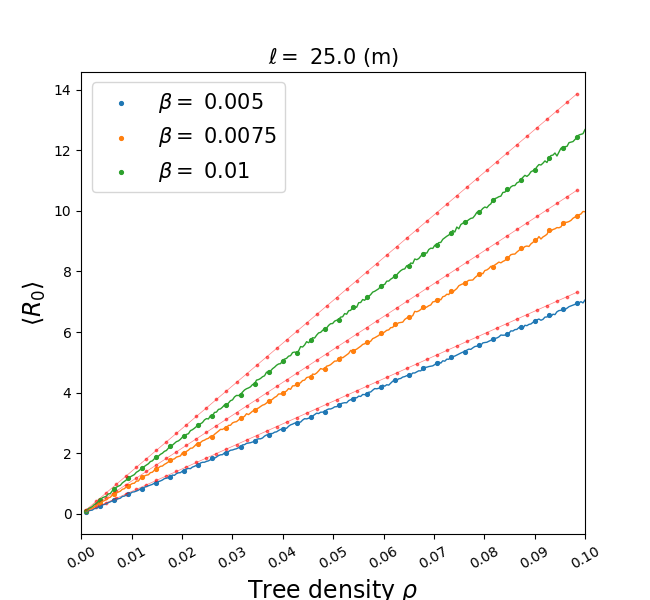
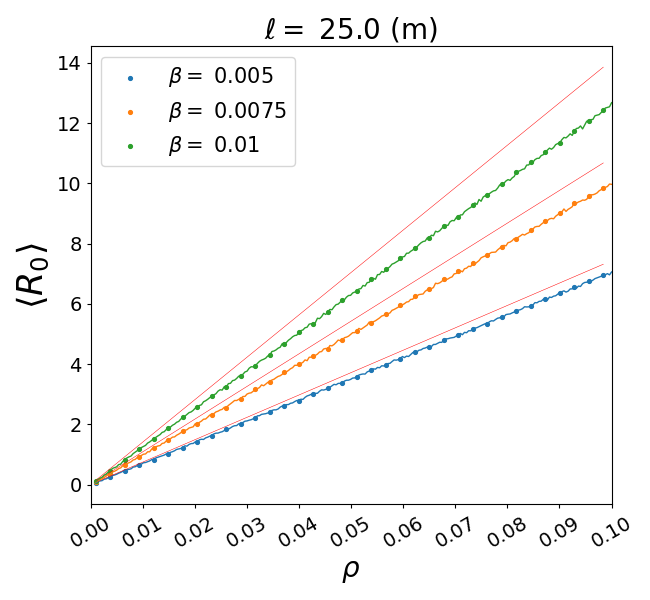
na

diff --git a/run_HPC/processData/data_process.py b/run_HPC/processData/data_process.py
@@ -67,15 +67,17 @@ class Plots:
 
                 # Get predicted R0 lines
                 R0_arr = Plots.get_R0_arr(self, rho=self.rho_Arr, beta=self.beta_Arr[j], ell=self.disp_Arr[i]/5, T=100)
-                ax.scatter(self.rho_Arr[::5], R0_arr[::5], color='r', s=3, alpha=0.5)
-                ax.plot(self.rho_Arr[::5], R0_arr[::5], color='r', linewidth=0.5, alpha=0.5)
+                # ax.scatter(self.rho_Arr[::5], R0_arr[::5], color='r', s=, alpha=0.5)
+                ax.plot(self.rho_Arr[::5], R0_arr[::5], color='r', linewidth=0.35, alpha=1)
 
             plt.xticks(np.round(np.linspace(0, self.rho_Arr[-1], 11), 3), rotation=30)
-            ax.set_ylabel(self.set_plots['ylabel'], size=17)
-            ax.set_xlabel(r'Tree density $\rho$', size=17)
+            ax.set_ylabel(self.set_plots['ylabel'], size=25)
+            ax.set_xlabel(r'$\rho$', size=20)
             # ax.grid(True)
             ax.set_xlim(0, 0.10)
-            ax.set_title(title + r"$\ell = $ {}".format(self.disp_Arr[i]) + ' (m)', size=15)
+            ax.set_title(title + r"$\ell = $ {}".format(self.disp_Arr[i]) + ' (m)', size=20)
+            ax.tick_params(axis='both', size=3, labelsize=14)
+            plt.tight_layout()
             plt.legend(prop={'size': 15})
             if saveFig[0]:
                 plt.savefig(os.getcwd() + '/' + 'ens-' + self.field + saveFig[1])
@@ -288,15 +290,14 @@ def combine_ens(ens_av1, ens_av2):
 if __name__ == '__main__':
     # Data fields saved
     fields = ['max_distance_km', 'mortality', 'mortality_ratio', 'percolation', 'run_time', 'velocity']
-    # data_dir = '09-03-2020-HPC-1D-sg-mapping-r0-ensemble-v3'
-    data_dir = '02-03-2020-HPC-2D-phase-percolation'
-    data_dir = '05-03-2020-HPC-1D-sg-mapping-r0-ensemble-v2'
+    data_dir = '09-03-2020-HPC-1D-sg-mapping-r0-ensemble-v3'
+    # data_dir = '02-03-2020-HPC-2D-phase-percolation'
+    # data_dir = '05-03-2020-HPC-1D-sg-mapping-r0-ensemble-v2'
     field_ = fields[1]
     plots = Plots(data_dir, field_)
-    plots.plot_distribution(results_name=data_dir, saveFig=[True, ''])
-    sys.exit()
+    # plots.plot_distribution(results_name=data_dir, saveFig=[True, ''])
     ensemble_Av = plots.get_ensemble(results_name=data_dir, mode="mean")
-    # plots.plot_rho_line(ensemble_Av, title='', saveFig=[True, '-R0'], save_sg_map=[False, ''])
-    plots.plot_2d_average(ensemble_Av, saveFig=[True, ''], saveData=False)
+    plots.plot_rho_line(ensemble_Av, title='', saveFig=[True, '-R0'], save_sg_map=[False, ''])
+    # plots.plot_2d_average(ensemble_Av, saveFig=[True, ''], saveData=False)
 
 # End

diff --git a/run_HPC/sg_main.py b/run_HPC/sg_main.py
@@ -46,7 +46,7 @@ if int(job_id) < 10:
     save_id = '00' + str(job_id)
 if 10 <= int(job_id) <= 100:
     save_id = '0' + str(job_id)
-if 0:  # Sub-grid mapping format
+if 1:  # Sub-grid mapping format
     # RUN partial parameter space
     mode = "sg mapping 1D"
     # rho_Arr_hig = np.linspace(0.10, 0.400, 4) # rho_Arr = np.hstack([rho_Arr_low, rho_Arr_med, rho_Arr_hig])
